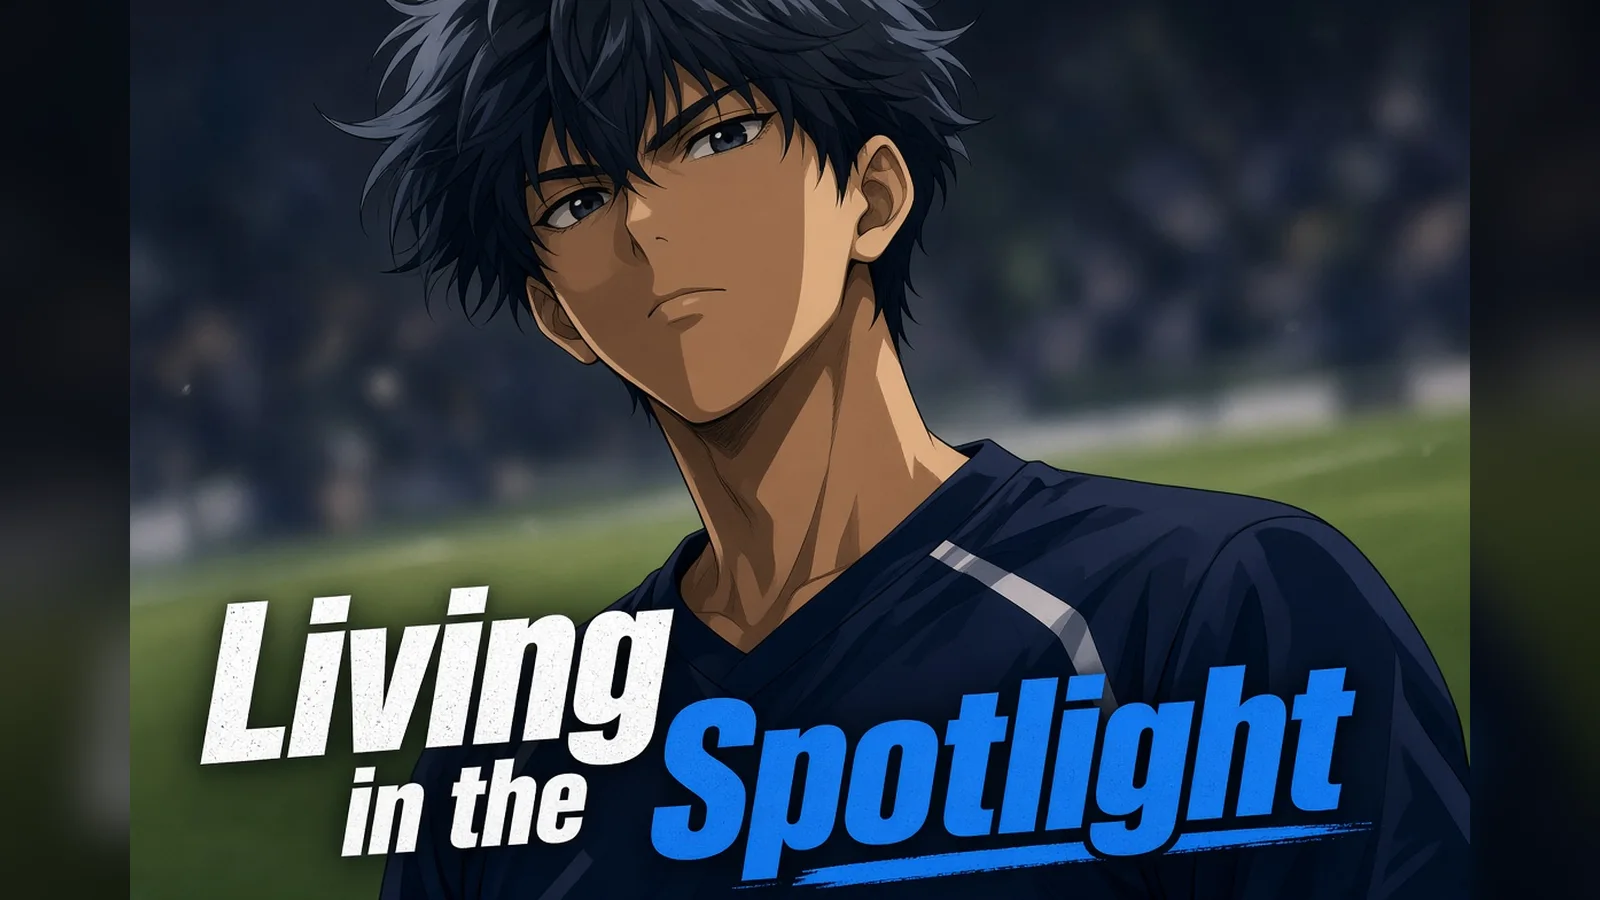
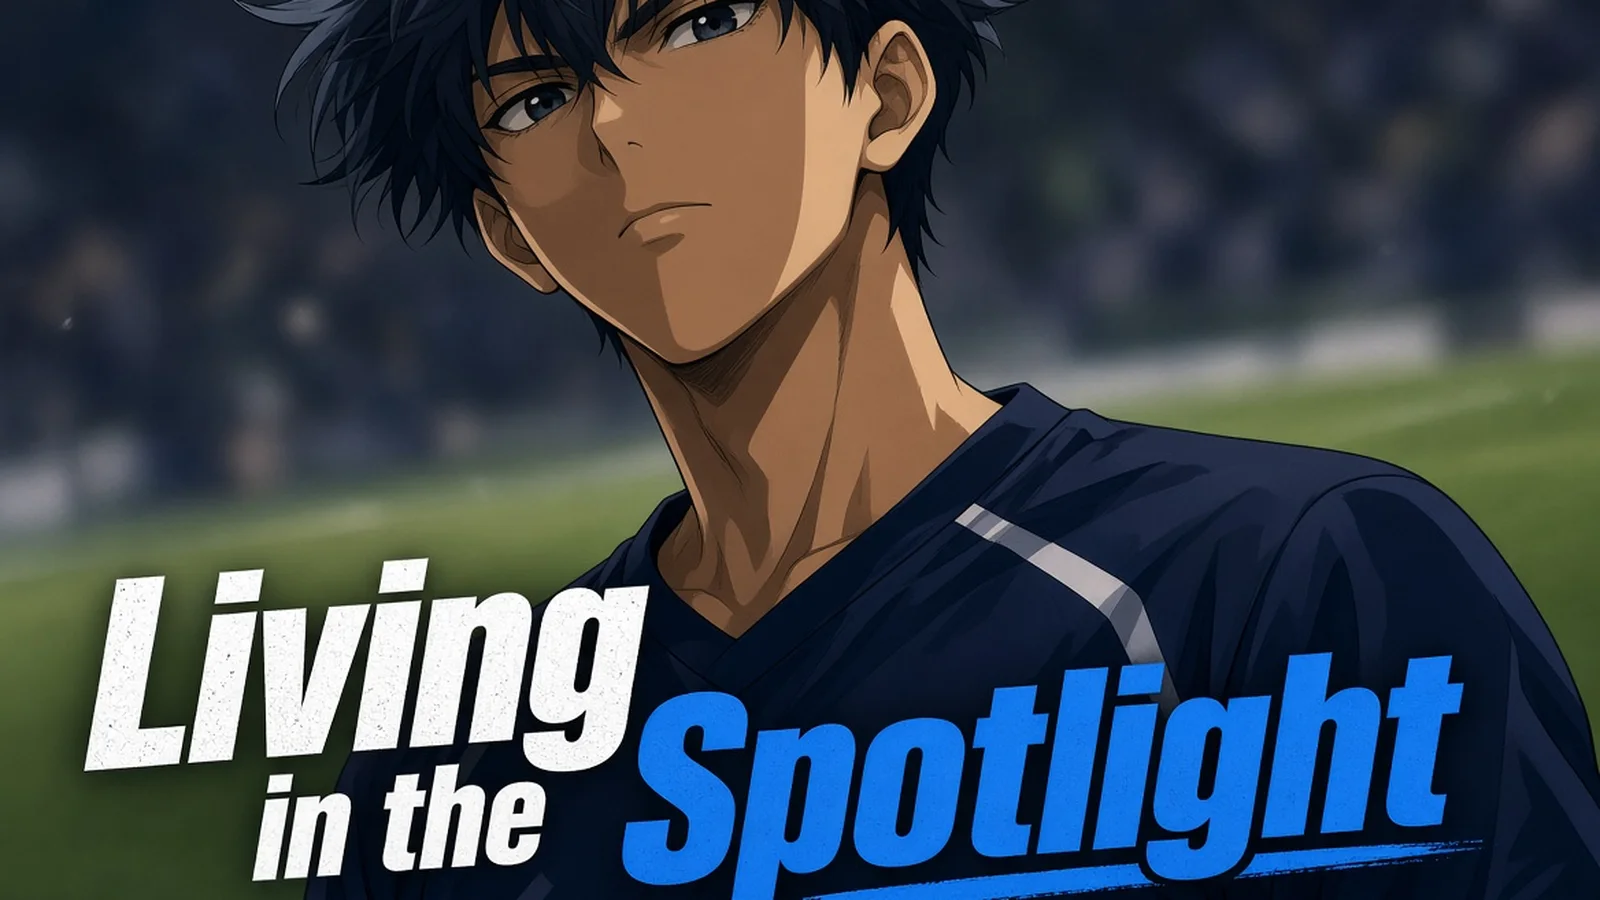
Webtoons: edge-to-edge After Annie and Spotlight covers

diff --git a/webtoons.js b/webtoons.js
@@ -3,7 +3,7 @@ window.WEBTOONS=[
 {id:"sote",title:"The Start of the End",status:"live",featured:true,img:"assets/home/sote-cover.webp",alt:"Cover of The Start of the End: a boy with a glowing gold mark before a green-lit spire city",
  tags:["13+","YA fantasy"],blurb:"A burned boy, a golden mark, and a city of spires.",
  links:[{label:"Read on Webtoon",url:"https://www.webtoons.com/en/canvas/the-start-of-the-end/list?title_no=1178955"},{label:"About the series",url:"#start-of-the-end"}]},
-{id:"after-annie",title:"After Annie",status:"live",featured:true,img:"assets/home/annie-cover.webp",alt:"Cover of After Annie: Dave laughing with a girl on his back as zombies close in",
+{id:"after-annie",title:"After Annie",status:"live",featured:true,img:"assets/home/annie-cover-wide.webp",alt:"Cover of After Annie: Dave laughing with Annie on his back as zombies close in",
  tags:["16+","Zombie drama"],blurb:"The night the outbreak hit, Dave was at his coworker Annie's place. Now he has to get home to his wife and daughter.",links:[{label:"Read on Webtoon",url:"https://www.webtoons.com/en/canvas/after-annie/list?title_no=1179075"}]},
 {id:"war-skill",title:"I Use My War Skill for Girls",status:"live",img:"assets/home/warskill.webp",alt:"Cover of I Use My War Skill for Girls: a wolf-eared hero with four companions before a castle city",
  tags:["Isekai rom-com","16+"],blurb:"He got isekai'd into a video game world and received a strategic planning skill meant for war. He's half wolf beast folk. Instead of using it to climb ranks or fight, he uses it to pick up girls. The same ability that could coordinate armies ends up getting him dates, avoiding fights he doesn't want, and accidentally keeping the peace because actual combat would mess up his plans.",
